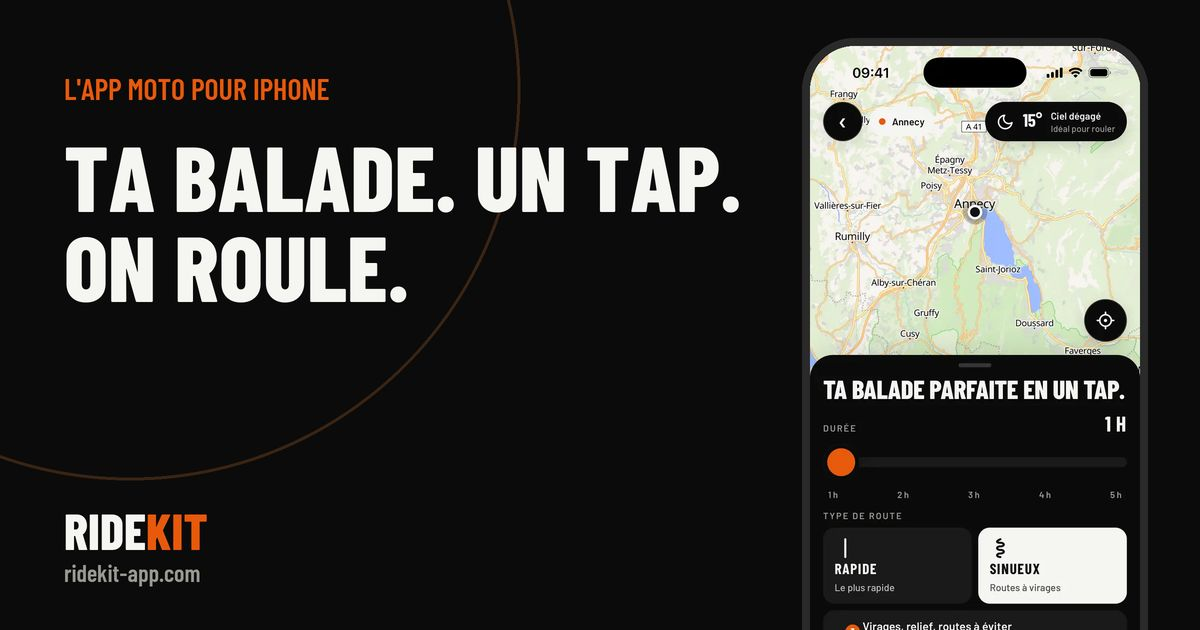
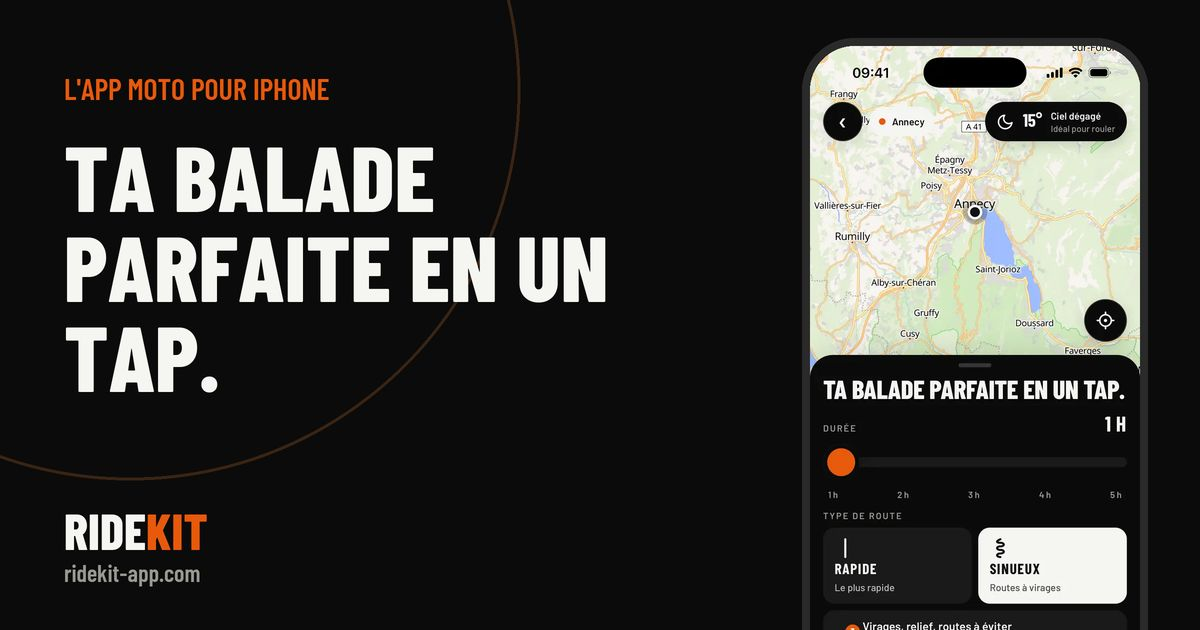
Accueil : « Ta balade parfaite en un tap. », comme dans l’app et ses captures (titre et image de partage)
Claude-Session: https://claude.ai/code/session_015j9WmEqrPUJKgjWcpvNZWu

Changed region(s): [[0.0617, 0.2111, 0.6167, 0.4825], [0.0308, 0.5127, 0.185, 0.6333]]

diff --git a/index.html b/index.html
@@ -49,7 +49,7 @@ if(f||(!s&&!(window.matchMedia&&matchMedia('(prefers-reduced-motion: reduce)').m
     <div class="wrap">
       <div>
         <p class="eyebrow">L'app moto pour iPhone</p>
-        <h1 id="home-title">Ta balade. <em>Un tap.</em> On roule.</h1>
+        <h1 id="home-title">Ta balade parfaite <em>en un tap.</em></h1>
         <p class="lede">Dis combien de temps tu as et quelles routes tu aimes : RideKit trace une boucle à virages autour de toi, te guide à la voix et garde la balade dans ton carnet. Avec tes potes sur la carte, et un proche prévenu si tu chutes.</p>
         <div class="btns" id="telecharger">
           {% include store.html %}

diff --git a/scripts/og.py b/scripts/og.py
@@ -20,7 +20,7 @@ OUT = ROOT / "assets/img/og"
 S = 2  # dessiné en 2× puis réduit
 
 PAGES = [
-    ("default", "L'app moto pour iPhone", "Ta balade. Un tap. On roule.", "boucle-en-un-tap"),
+    ("default", "L'app moto pour iPhone", "Ta balade parfaite en un tap.", "boucle-en-un-tap"),
     ("generateur-balade-moto", "Générateur de balade moto", "Ta balade moto en un tap", "boucle-apercu"),
     ("sortie-moto-en-groupe", "Sortie moto en groupe", "Tes potes sur la carte", "sortie-de-groupe"),
     ("detection-chute-moto", "Détection de chute · RideKit Pro", "Si tu tombes, un proche le sait", "detection-de-chute"),
